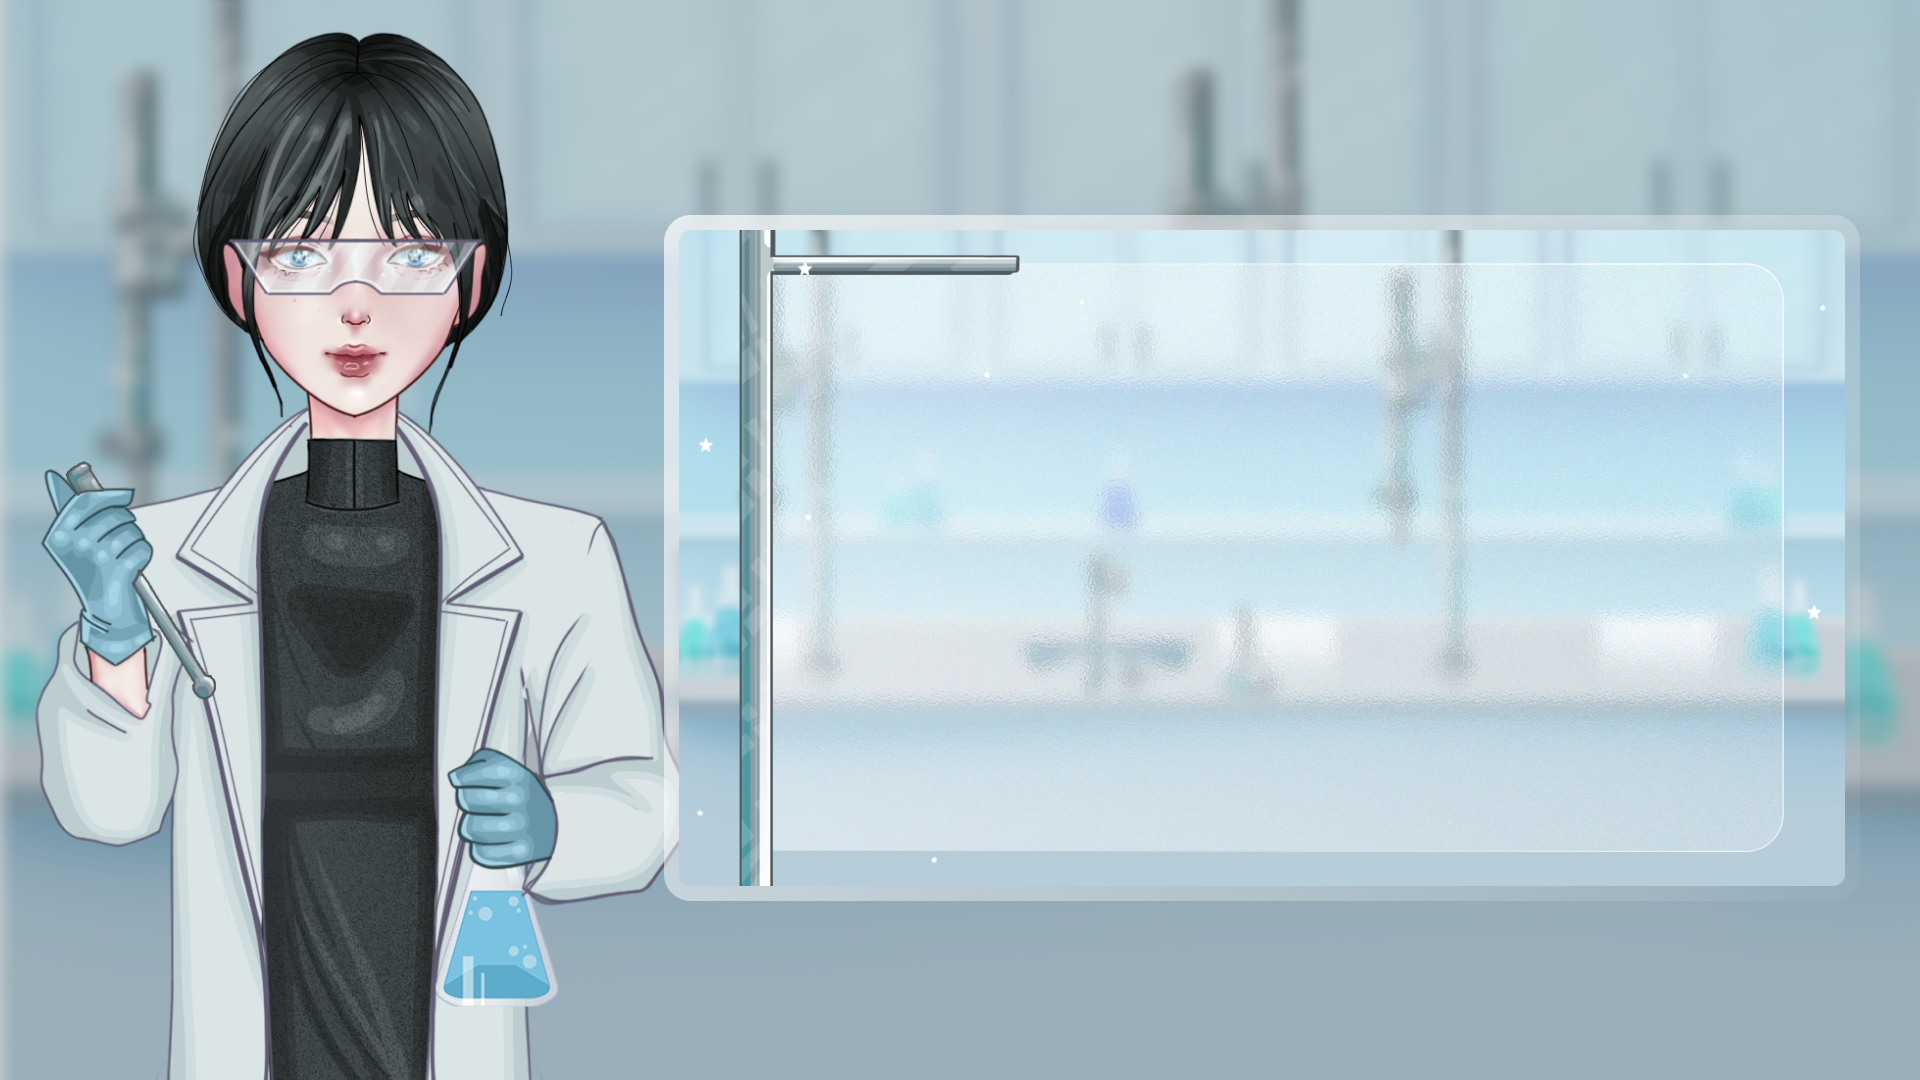
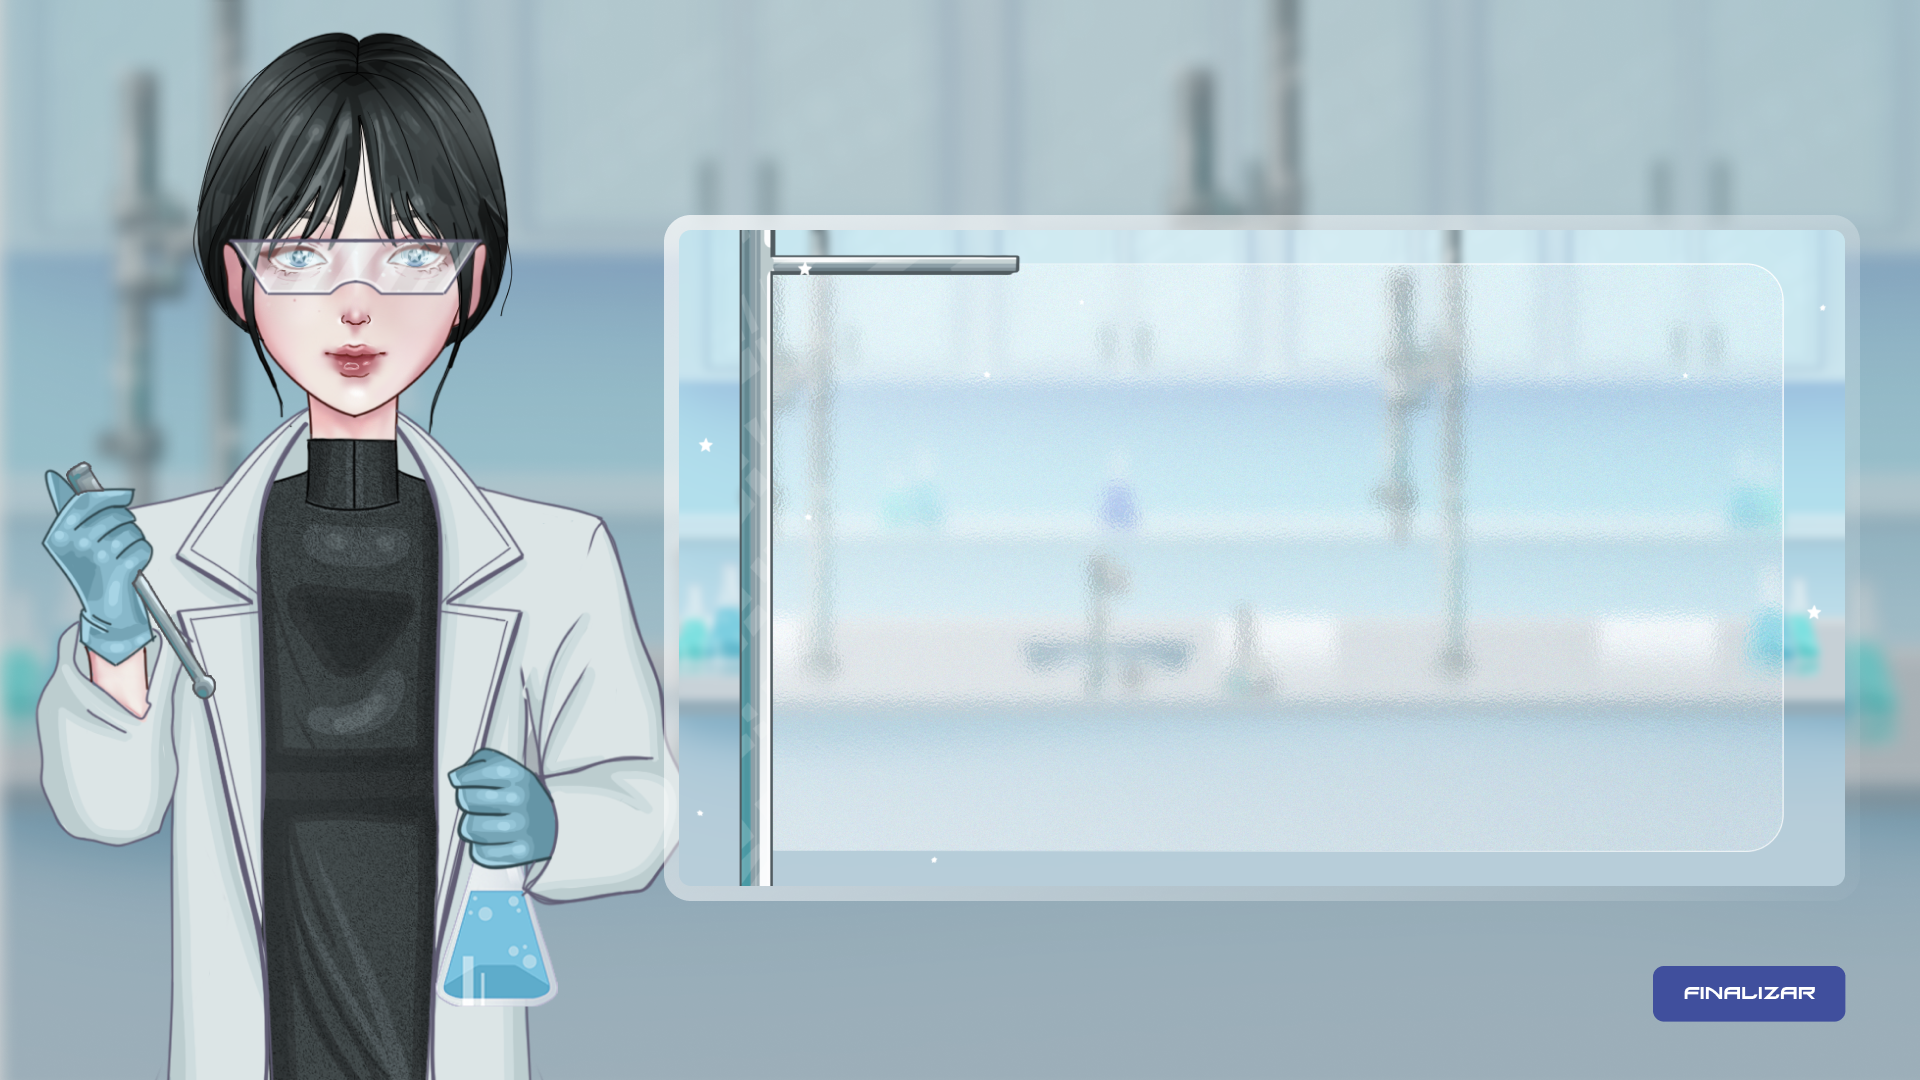
Score screen changes

Changed region(s): [[0.8438, 0.8861, 0.9688, 0.9472]]

diff --git a/nivel-score/sketch.js b/nivel-score/sketch.js
@@ -20,5 +20,13 @@ function draw() {
     textStyle(BOLD);
     text('Tu puntuación final fue: ' +score, 700, 410);
     console.log(score);
+
     
+    
+}
+
+function mousePressed(){
+    if (mouseX > 1322 && mouseX < 1473 && mouseY > 661 && mouseY < 701) {
+        console.log('Lo que necesita hacer Cristian');
+    }
 }

diff --git a/nivel-3/index.js b/nivel-3/index.js
@@ -108,7 +108,7 @@ function countdown(minutes, seconds) {
 
 countdown(1, 05);
 
-function changeLevel(){
+
     if((countdown) === 0){ 
 
         changeLevelScore(); 
@@ -117,7 +117,6 @@ function changeLevel(){
     else{
        
     }   
-}
 
 //Mostrar la notificación
 function showNotification(){
